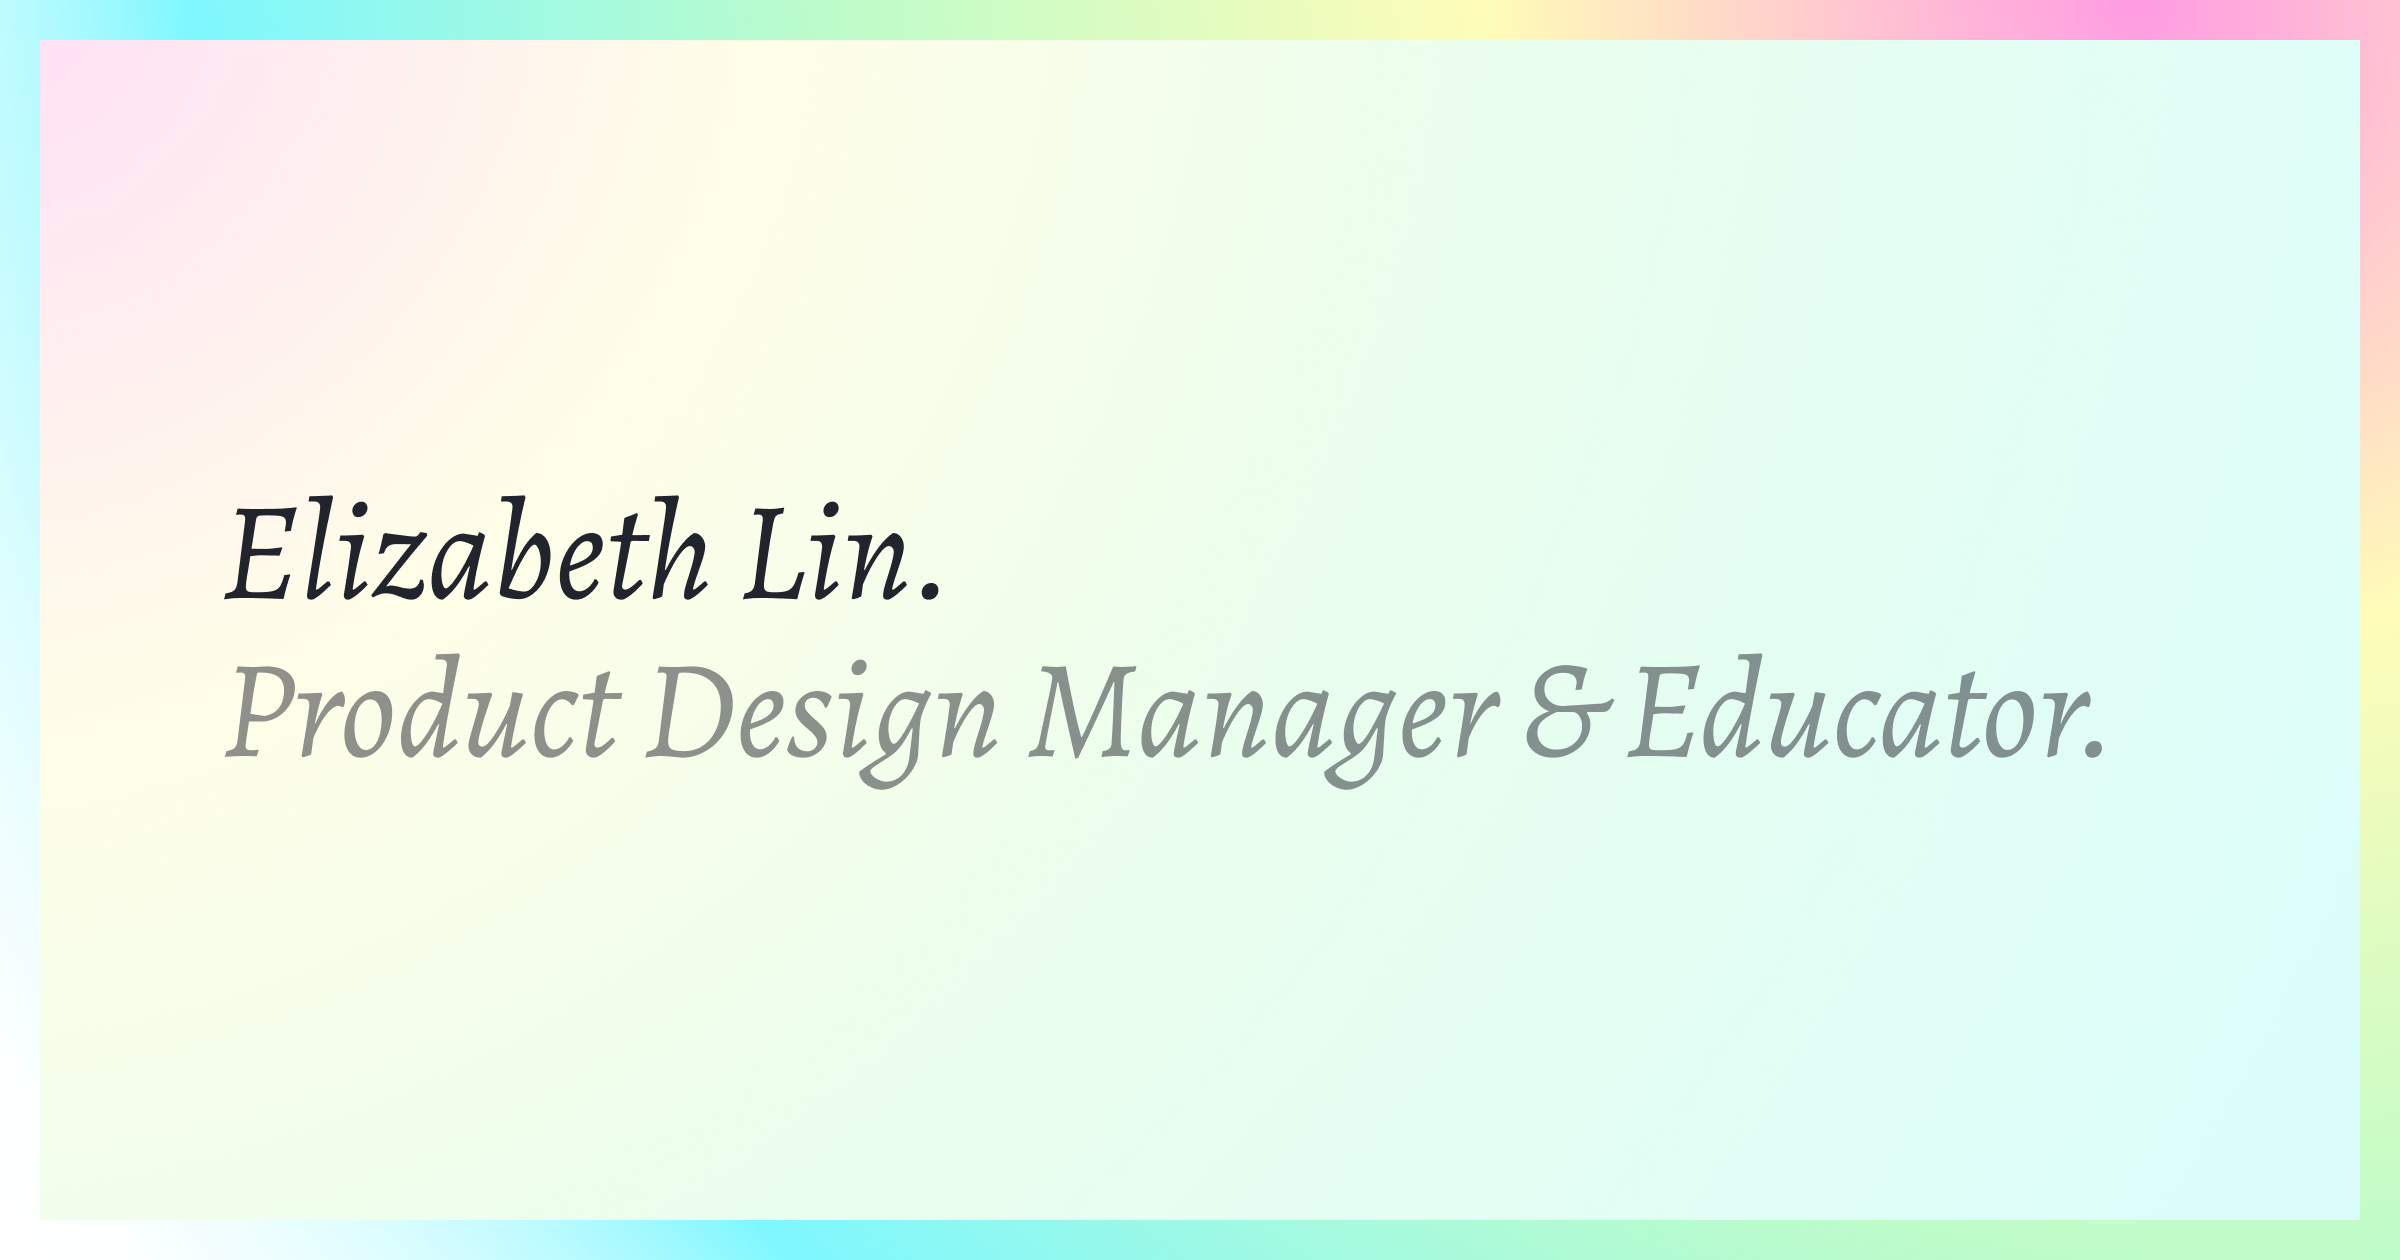
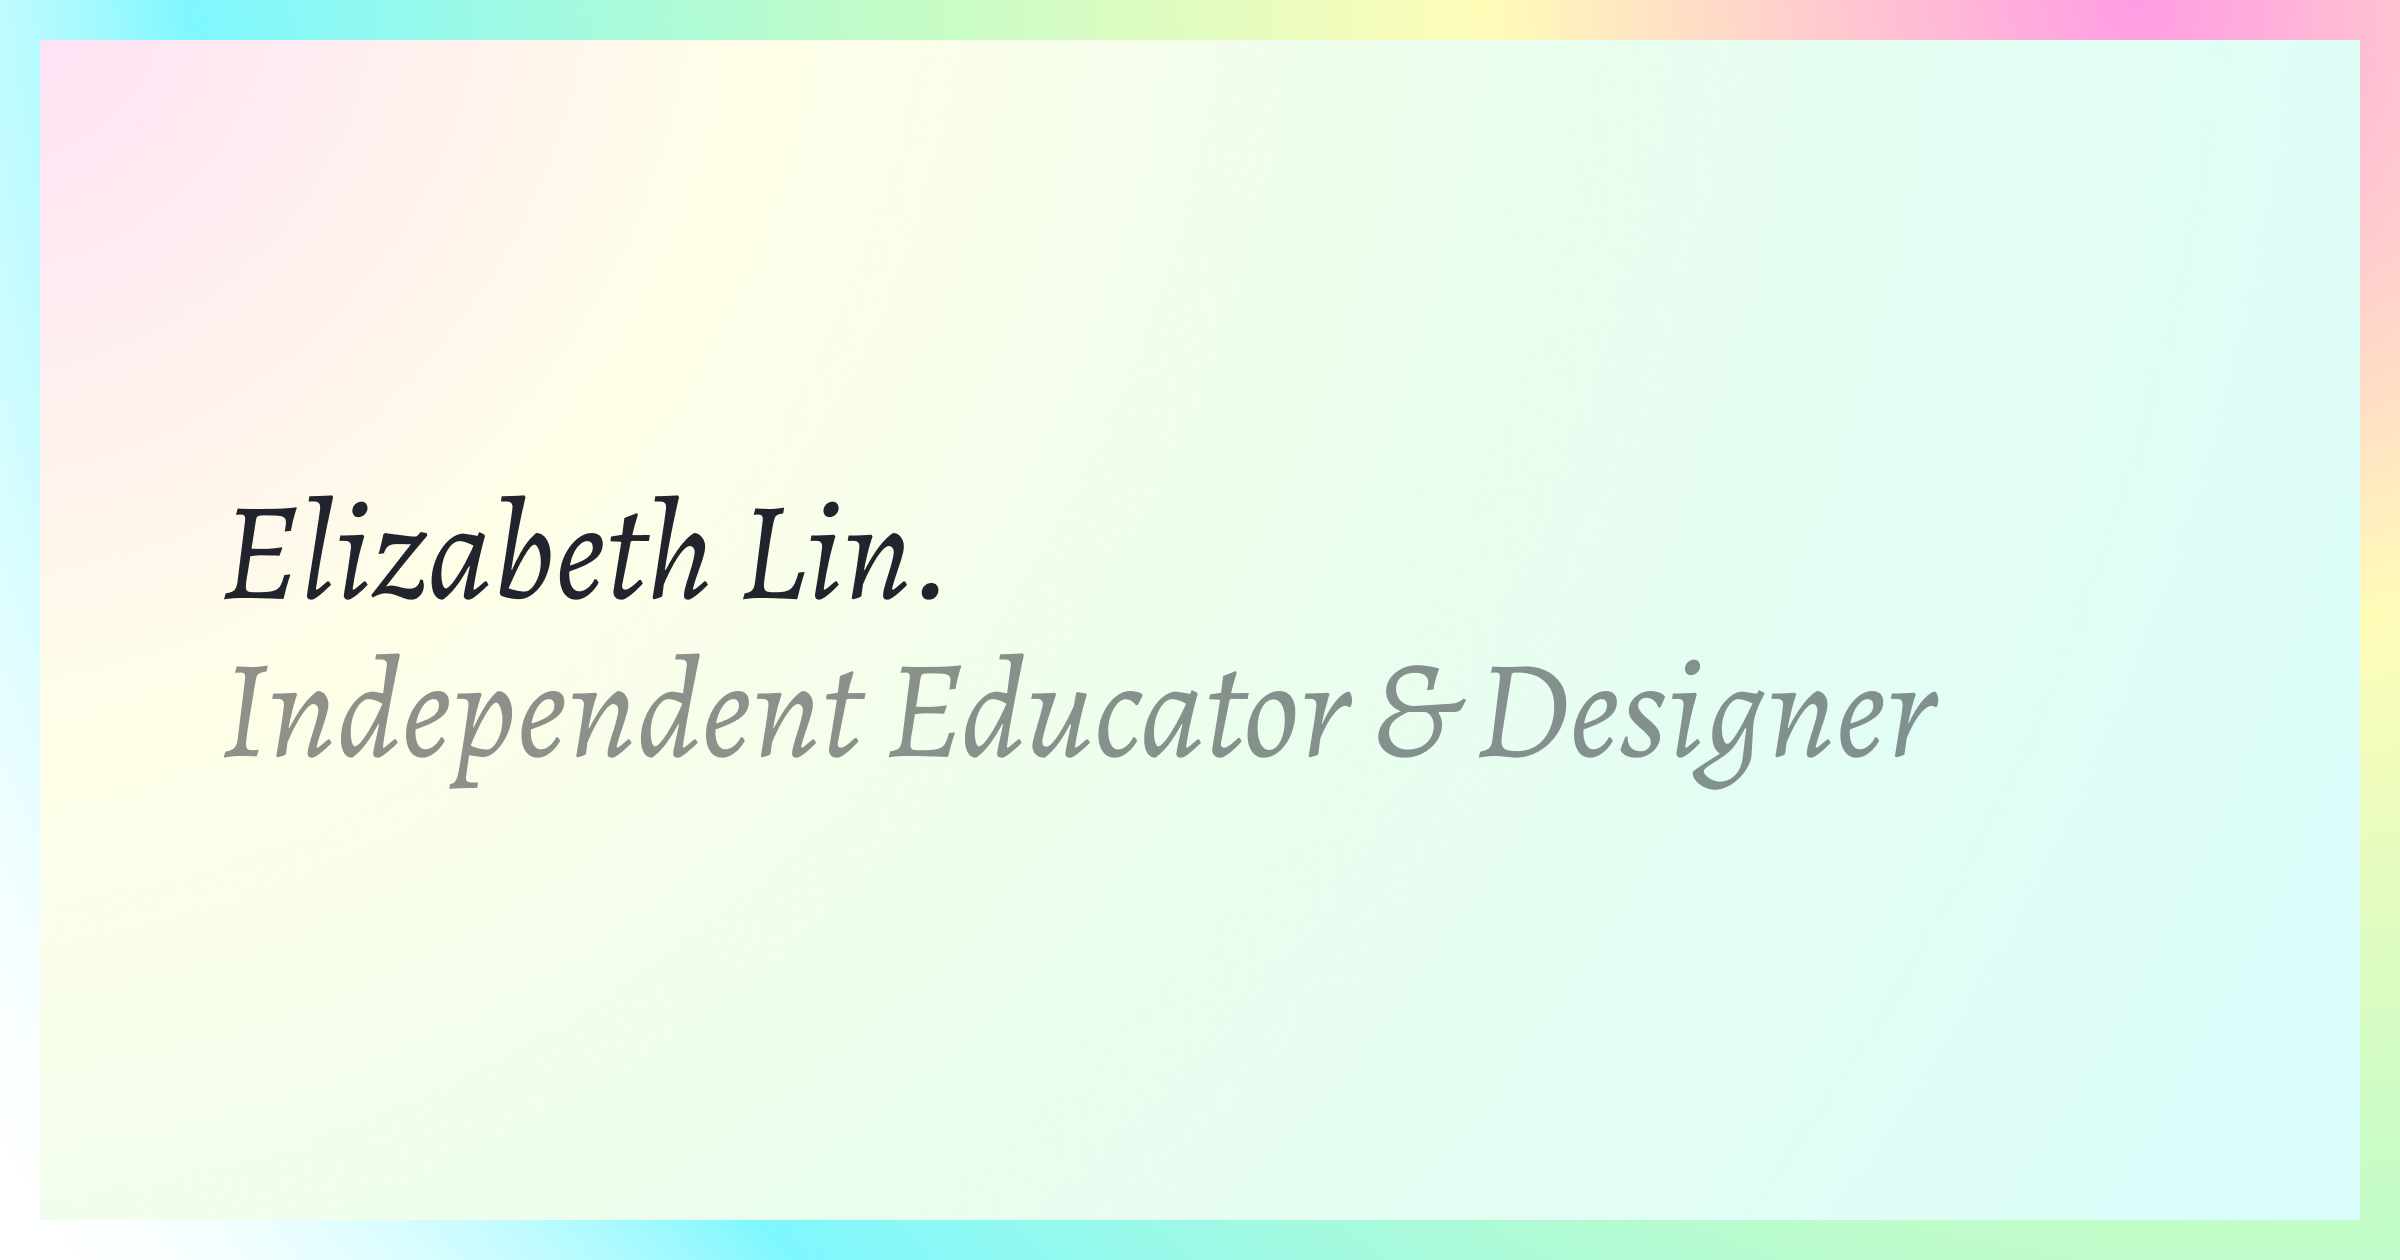
change heading

Changed region(s): [[0.0938, 0.4952, 0.875, 0.619]]

diff --git a/src/app/page.tsx b/src/app/page.tsx
@@ -43,7 +43,7 @@ export default function Home() {
           <section className={styles.experienceGroup}>
             <h3>Teaching &amp; mentorship</h3>
             <ol>
-            <ExperienceRow
+              <ExperienceRow
                 title="Prototyping with Cursor"
                 subtitle="Design is a Party, 2025"
                 link="https://designisaparty.com/prototyping"
@@ -55,7 +55,7 @@ export default function Home() {
                 link="/art-of-visual-design"
                 tooltip="300+ students have enrolled!"
               ></ExperienceRow>
-                            <ExperienceRow
+              <ExperienceRow
                 title="How I AI"
                 subtitle="2025"
                 link="https://www.youtube.com/watch?v=zQkFJNj-2lw&lc=UgzCeLdbexHx8qdkMap4AaABAg"
@@ -73,7 +73,7 @@ export default function Home() {
                 link="https://designisaparty.com/blog/learning-the-why/"
                 tooltip="📄 Blog: Thoughts on teaching design reasoning"
               ></ExperienceRow>
-                            <ExperienceRow
+              <ExperienceRow
                 title="Designing interfaces for connection"
                 subtitle="Type Electives, 2025"
                 link="https://designisaparty.com/designing-interfaces-for-connection/"
@@ -124,13 +124,19 @@ export default function Home() {
           <section className={styles.experienceGroup}>
             <h3>Just for fun</h3>
             <ol>
-            <ExperienceRow
+              <ExperienceRow
+                title="Guess the Dupe"
+                subtitle="2025"
+                link="/guess-the-dupe"
+                tooltip="Can you spot the designer knockoff? A fun visual game!"
+              ></ExperienceRow>
+              <ExperienceRow
                 title="Discover your design aesthetic quiz"
                 subtitle="2024"
                 link="https://www.artofvisualdesign.com/aesthetic-quiz"
                 tooltip="The stars will reveal your design aesthetic~"
               ></ExperienceRow>
-                          <ExperienceRow
+              <ExperienceRow
                 title="Reveal your design destiny"
                 subtitle="2024"
                 link="https://www.artofvisualdesign.com/crystal-ball"
@@ -182,7 +188,7 @@ export default function Home() {
             </p>{" "}
             <p>
               {
-                "I'm currently building an alternative design school called"} <Link className={styles.inlineLink} href='https://www.designisaparty.com/'>design is a party</Link>.
+                "I'm currently building an alternative design school called"} <Link className={styles.inlineLink} href='https://www.designisaparty.com/'>design is a party</Link>. {"I primarily teach designers how to prototype with AI and improve their visual design skills. I'm also an adjunct professor at SVA."}
             </p>
             <p>
               {

diff --git a/src/app/layout.tsx b/src/app/layout.tsx
@@ -19,7 +19,7 @@ const ibm_plex_mono = IBM_Plex_Mono({
 });
 
 export const metadata: Metadata = {
-  title: "Elizabeth Lin: Product Designer & Educator",
+  title: "Elizabeth Lin: Independent Product Designer & Educator",
   description:
     "Building an alternative design school. Previously at Primer, Lambda School, & Khan Academy",
   keywords: [
@@ -34,7 +34,7 @@ export const metadata: Metadata = {
     "mentorship",
   ],
   openGraph: {
-    title: "Elizabeth Lin: Product Designer & Educator",
+    title: "Elizabeth Lin: Independent Product Designer & Educator",
     description:
       "Building an alternative design school. Previously at Primer, Lambda School, & Khan Academy",
     url: "https://lalizlabeth.com",
@@ -51,7 +51,7 @@ export const metadata: Metadata = {
   },
   twitter: {
     card: "summary_large_image",
-    title: "Elizabeth Lin: Product Designer & Educator",
+    title: "Elizabeth Lin: Independent Product Designer & Educator",
     description:
       "Building an alternative design school. Previously at Primer, Lambda School, & Khan Academy",
     images: [

diff --git a/src/app/guess-the-dupe/page.tsx b/src/app/guess-the-dupe/page.tsx
@@ -1,0 +1,9 @@
+import styles from './guess-the-dupe.module.css';
+
+export default function GuessTheDupe() {
+  return (
+    <div className={styles.container}>
+    
+    </div>
+  );
+}
